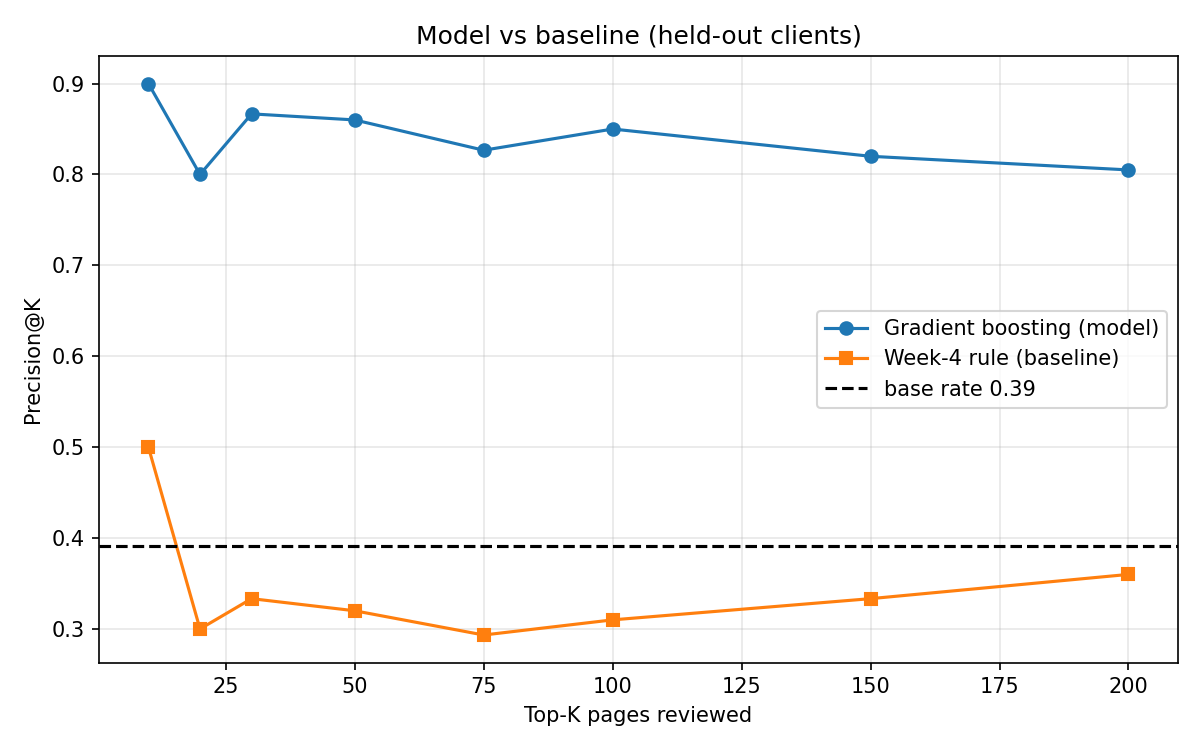
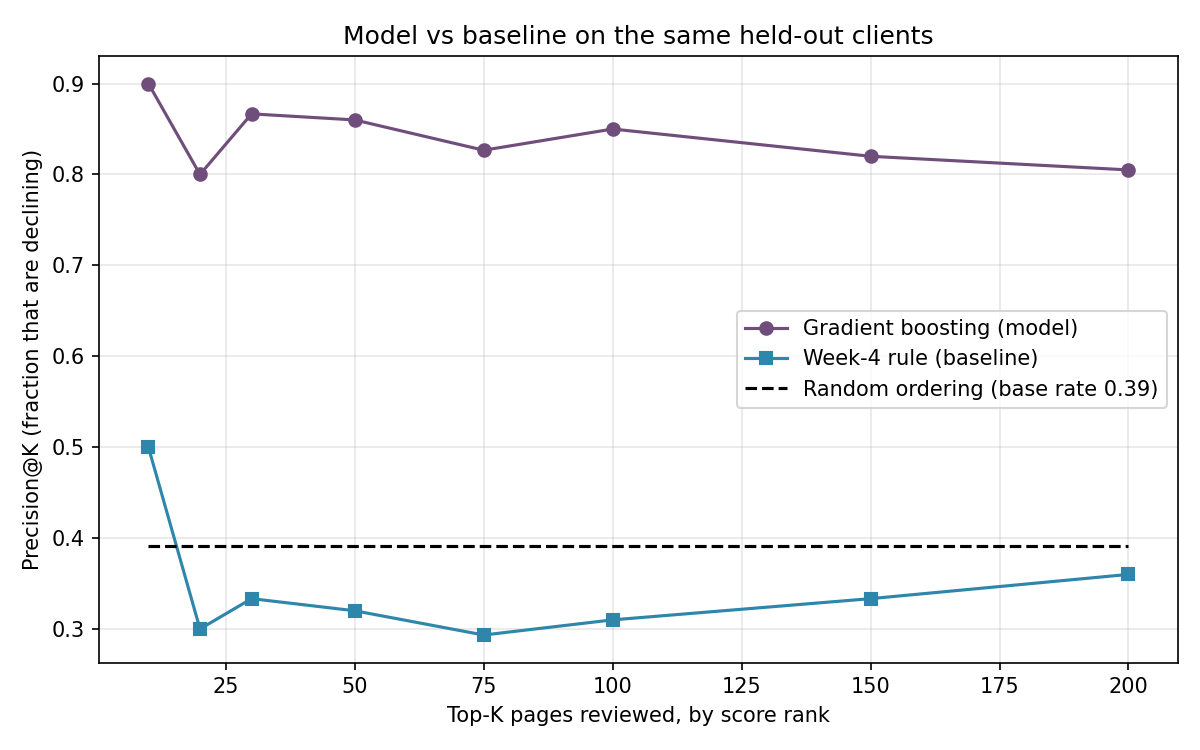
Reconcile analysis script metadata and regenerated precision@k figure with deployed paper

diff --git a/work/scripts/capstone_analysis.py b/work/scripts/capstone_analysis.py
@@ -82,6 +82,8 @@ def main() -> None:
     }
     w4 = _week4_baseline(df, train_mask, test_mask)
     metrics["w4_precision_at_50"] = precision_at_k(yte, w4, 50)
+    metrics["task"] = "capstone"
+    metrics["split"] = "client_holdout"
     metrics["seed"] = RANDOM_STATE
     metrics["n_train_rows"] = int(train_mask.sum())
     metrics["n_test_rows"] = int(test_mask.sum())
